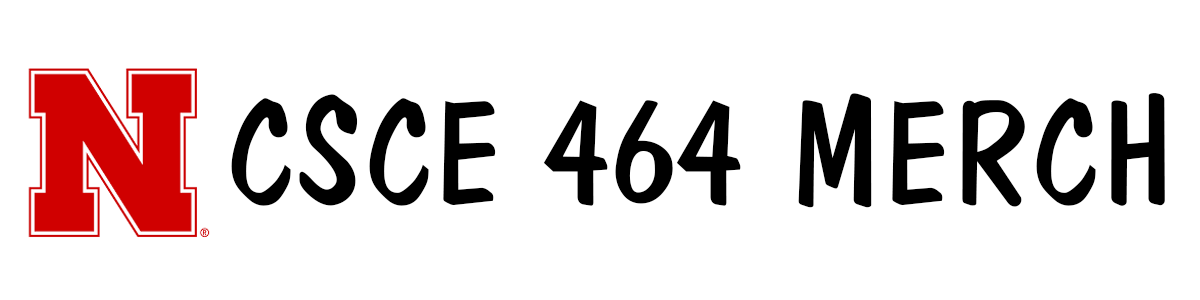
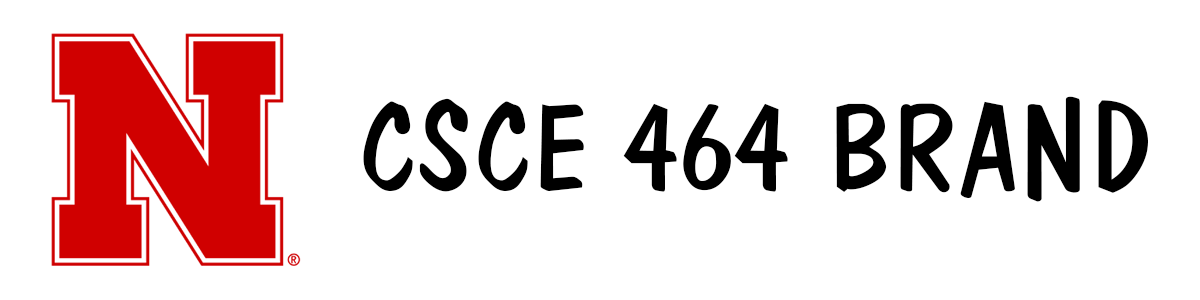
minor tweaks

Changed region(s): [[0.0, 0.09, 0.9867, 0.9]]

diff --git a/index.html b/index.html
@@ -8,7 +8,7 @@
     <script src="scripts/menus.js"></script>
     <script src="scripts/contactFormValidate.js"></script>
     <script src="scripts/orderFormValidate.js"></script>
-    <title>CSCE 464 Merch</title>
+    <title>CSCE 464 Brand</title>
   </head>
 
   <body onload="startRotation()">
@@ -16,7 +16,7 @@
       <!-- logo.html -->
       <div id="logo">
         <img src="images/header.png"
-             alt="Nature's Source"
+             alt="CSCE 464 Brand"
              width="768"
             height="192">
       </div>
@@ -39,10 +39,35 @@
 
     </header>
     <main>
-      <article id="textLeft">
-        <h3>Welcome to CSCE 464 Merch:<br>
-          Providing you merch for the one and only CSCE 464.</h3>
-      </article>
+      <h3>Welcome to CSCE 464 Brand:<br></h3>
+      <div style="margin: 100px 0px 0px 0px" id="textRight">
+        <img src="images/black_tee.png"
+             alt="Black Tee"
+             width="480"
+             height="360">
+        <img src="images/white_tee.png"
+             alt="White Tee"
+             width="480"
+             height="360">
+      </div>
+      <div>
+        <button style="margin:40px 0px 40px 170px; width: 150px; height: 70px"><a href="pages/order.html"> Buy </a></button>
+        <button style="margin:40px 0px 40px 330px; width: 150px; height: 70px"><a href="pages/order.html"> Buy </a></button>
+      </div>
+      <div style="margin: 100px 0px 0px 0px" id="textRight">
+        <img src="images/black_hoodie.png"
+             alt="Black Hoodie"
+             width="480"
+             height="360">
+        <img src="images/white_hoodie.png"
+             alt="White Hoodie"
+             width="480"
+             height="360">
+      </div>
+      <div>
+        <button style="margin:40px 0px 40px 170px; width: 150px; height: 70px"><a href="pages/order.html"> Buy </a></button>
+        <button style="margin:40px 0px 40px 330px; width: 150px; height: 70px"><a href="pages/order.html"> Buy </a></button>
+      </div>
     </main>
   </body>
 </html>

diff --git a/pages/contact_confirmation.html b/pages/contact_confirmation.html
@@ -5,23 +5,22 @@
     <meta charset="utf-8">
     <meta name="viewport" content="width=device-width">
     <link rel="stylesheet" href="../css/desktop.css">
-    <script src="../scripts/menus.js"></script>
-    <script src="../scripts/contactFormValidate.js"></script>
-    <script src="../scripts/orderFormValidate.js"></script>
+    <script src="scripts/menus.js"></script>
+    <script src="scripts/contactFormValidate.js"></script>
+    <script src="scripts/orderFormValidate.js"></script>
     <title>CSCE 464 Brand</title>
   </head>
 
-<!-- featured.html -->
-  <body>
+  <body onload="startRotation()">
     <header>
       <!-- logo.html -->
       <div id="logo">
         <img src="../images/header.png"
-          alt="CSCE 464 Brand"
-          width="768"
-          height="192"> 
+             alt="CSCE 464 Brand"
+             width="768"
+            height="192">
       </div>
-      
+
       <!-- menus.html -->
       <nav onmouseout="hide()">
         <ul class="Links">
@@ -40,20 +39,10 @@
 
     </header>
     <main>
-      <div style="margin: 100px 0px 0px 0px" id="textRight">
-        <img src="../images/black_hoodie.png"
-             alt="Black Hoodie"
-             width="480"
-             height="360">
-        <img src="../images/white_hoodie.png"
-             alt="White Hoodie"
-             width="480"
-             height="360">
-      </div>
-      <div>
-        <button style="margin:20px 0px 0px 210px; width: 50px; height: 20px"><a href="order.html"> Buy </a></button>
-        <button style="margin:20px 0px 0px 435px; width: 50px; height: 20px"><a href="order.html"> Buy </a></button>
-      </div>
+      <article id="textLeft">
+        <h3>We'll get back to you shortly!<br>
+        </h3>
+      </article>
     </main>
   </body>
 </html>

diff --git a/pages/confirmation.html b/pages/confirmation.html
@@ -5,23 +5,22 @@
     <meta charset="utf-8">
     <meta name="viewport" content="width=device-width">
     <link rel="stylesheet" href="../css/desktop.css">
-    <script src="../scripts/menus.js"></script>
-    <script src="../scripts/contactFormValidate.js"></script>
-    <script src="../scripts/orderFormValidate.js"></script>
+    <script src="scripts/menus.js"></script>
+    <script src="scripts/contactFormValidate.js"></script>
+    <script src="scripts/orderFormValidate.js"></script>
     <title>CSCE 464 Brand</title>
   </head>
 
-<!-- featured.html -->
-  <body>
+  <body onload="startRotation()">
     <header>
       <!-- logo.html -->
       <div id="logo">
         <img src="../images/header.png"
-          alt="CSCE 464 Brand"
-          width="768"
-          height="192"> 
+             alt="CSCE 464 Brand"
+             width="768"
+            height="192">
       </div>
-      
+
       <!-- menus.html -->
       <nav onmouseout="hide()">
         <ul class="Links">
@@ -40,20 +39,10 @@
 
     </header>
     <main>
-      <div style="margin: 100px 0px 0px 0px" id="textRight">
-        <img src="../images/black_hoodie.png"
-             alt="Black Hoodie"
-             width="480"
-             height="360">
-        <img src="../images/white_hoodie.png"
-             alt="White Hoodie"
-             width="480"
-             height="360">
-      </div>
-      <div>
-        <button style="margin:20px 0px 0px 210px; width: 50px; height: 20px"><a href="order.html"> Buy </a></button>
-        <button style="margin:20px 0px 0px 435px; width: 50px; height: 20px"><a href="order.html"> Buy </a></button>
-      </div>
+      <article id="textLeft">
+        <h3>Thank You For Your Purchase!<br>
+        </h3>
+      </article>
     </main>
   </body>
 </html>

diff --git a/pages/about.html b/pages/about.html
@@ -8,7 +8,7 @@
     <script src="../scripts/menus.js"></script>
     <script src="../scripts/contactFormValidate.js"></script>
     <script src="../scripts/orderFormValidate.js"></script>
-    <title>CSCE 464 Merch</title>
+    <title>CSCE 464 Brand</title>
   </head>
 
 <body onload="startRotation()">
@@ -16,7 +16,7 @@
       <!-- logo.html -->
       <div id="logo">
         <img src="../images/header.png"
-             alt="Nature's Source"
+             alt="CSCE 464 Brand"
              width="768"
              height="192">
       </div>
@@ -40,10 +40,10 @@
     </header>
     <main>
       <article id="textLeft">
-        <h3>About CSCE 464 Merch</h3>
-        <p>Started in 2022, CSCE 464 Merch was created for those who
+        <h3>About CSCE 464 Brand</h3>
+        <p>Started in 2022, CSCE 464 Brand was created for those who
         want to represent the best course in the history of UNL. Offering 
-        only the highest quality clothes, CSCE 464 Merch is very humbled
+        only the highest quality clothes, CSCE 464 Brand is very humbled
         to serve those who have taken part in this storied course.</p>
       </article>
     </main>

diff --git a/pages/contact.html b/pages/contact.html
@@ -8,7 +8,7 @@
     <script src="../scripts/menus.js"></script>
     <script src="../scripts/contactFormValidate.js"></script>
     <script src="../scripts/orderFormValidate.js"></script>
-    <title>CSCE 464 Merch</title>
+    <title>CSCE 464 Brand</title>
   </head>
 
 <!-- contactForm.html -->
@@ -17,7 +17,7 @@
       <!-- logo.html -->
       <div id="logo">
         <img src="../images/header.png"
-          alt="Nature's Source"
+          alt="CSCE 464 Brand"
           width="768"
           height="192"> 
       </div>
@@ -42,7 +42,7 @@
     <main>
       <article class="Contact">
         <h4>Contact Form ...</h4>
-        <form id="contactForm" onsubmit="contactFormValidate()">
+        <form id="contactForm" action="contact_confirmation.html">
           <table>
             <tr>
               <td>First Name:</td>

diff --git a/pages/order.html b/pages/order.html
@@ -8,7 +8,7 @@
     <script src="../scripts/menus.js"></script>
     <script src="../scripts/contactFormValidate.js"></script>
     <script src="../scripts/orderFormValidate.js"></script>
-    <title>CSCE 464 Merch</title>
+    <title>CSCE 464 Brand</title>
   </head>
 
 <!-- contactForm.html -->
@@ -17,7 +17,7 @@
       <!-- logo.html -->
       <div id="logo">
         <img src="../images/header.png"
-          alt="Nature's Source"
+          alt="CSCE 464 Brand"
           width="768"
           height="192"> 
       </div>
@@ -42,7 +42,7 @@
     <main>
       <article class="Contact">
         <h4>Order Details ...</h4>
-        <form id="contactForm" onsubmit="orderFormValidate()">
+        <form id="contactForm" action="confirmation.html">
           <table>
             <tr>
               <td>First Name:</td>

diff --git a/pages/tees.html b/pages/tees.html
@@ -8,7 +8,7 @@
     <script src="../scripts/menus.js"></script>
     <script src="../scripts/contactFormValidate.js"></script>
     <script src="../scripts/orderFormValidate.js"></script>
-    <title>CSCE 464 Merch</title>
+    <title>CSCE 464 Brand</title>
   </head>
 
 <!-- catalog.html -->
@@ -17,7 +17,7 @@
       <!-- logo.html -->
       <div id="logo">
         <img src="../images/header.png"
-          alt="Nature's Source"
+          alt="CSCE 464 Brand"
           width="768"
           height="192">
       </div>
